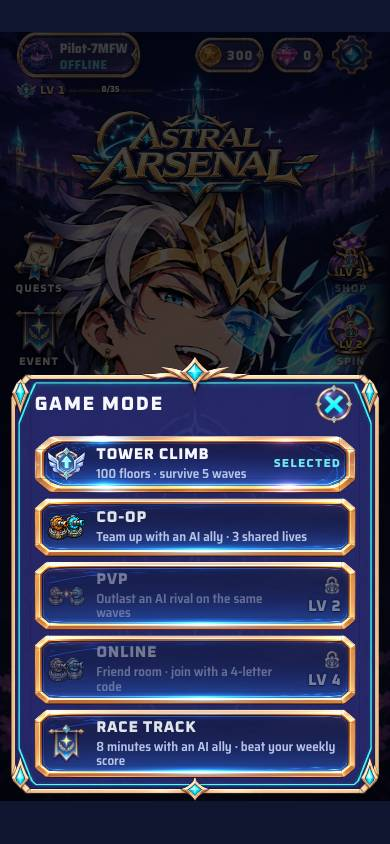
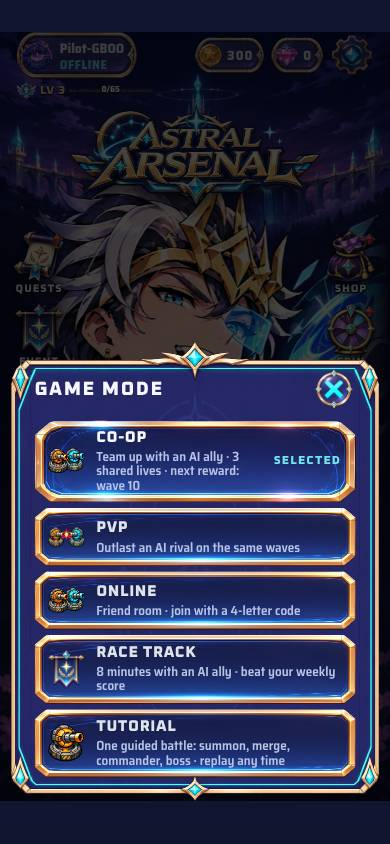
Bỏ Leo Tháp + hướng dẫn riêng: tài liệu gốc (bảng quy đổi tầng → wave), GAMEPLAY, thiết kế §5, ảnh đã xem; khung thưởng mốc wave; test
Claude-Session: https://claude.ai/code/session_01KQA7LFBkcdkiPiLcwYs7V2

diff --git a/tools/thap-kt-tien-trinh.js b/tools/thap-kt-tien-trinh.js
@@ -270,7 +270,7 @@ const sleep = (ms) => new Promise(r => setTimeout(r, ms));
     o.toast = (document.getElementById('chon-goi-nhac') || {}).textContent; o.che2 = HM.che;
     return o;
   });
-  ok(r.mo === '' && r.cheCoop === 'thap' && r.cheOnl === 'thap' && !r.shopMo && !r.vqMo && r.quay && r.ru && r.ruFree && r.sp && r.onl && r.nut && r.che === 'thap,coop,pvp,online,dd' /* 11/11 bỏ thu/san/tw/vt, thêm dd (Đường Đua) */ && /Pilot Level 4/.test(r.toast) && r.che2 === 'thap',
+  ok(r.mo === '' && r.cheCoop === 'coop' && r.cheOnl === 'coop' && !r.shopMo && !r.vqMo && r.quay && r.ru && r.ruFree && r.sp && r.onl && r.nut && r.che === 'coop,pvp,online,dd' /* 11/11 bỏ thu/san/tw/vt, thêm dd (Đường Đua) */ && /Pilot Level 4/.test(r.toast) && r.che2 === 'coop',
     'người mới (chưa xong hướng dẫn): khoá CO-OP/PVP/ONLINE/cửa hàng/vòng quay/rương (rương thưởng vẫn mở), nút tối + "LV 2", chạm → điều kiện', JSON.stringify(r));
   await chup('khoa-1-che-moi');
   await p.evaluate(() => HM.dong(true)); await chup('khoa-0-home-moi');
@@ -287,7 +287,7 @@ const sleep = (ms) => new Promise(r => setTimeout(r, ms));
     KTUI.dong();
     return o;
   });
-  ok(r.hd === 'coop,thap,dd' && r.c2 === 'coop,pvp,nvd,shop,vq,thap,dd' && r.bao2 === 'pvp,nvd,shop,vq' && r.chePvp === 'pvp' && r.shopMo && r.ruV && r.ren === 3 && r.ruVLogic && r.c3 && r.ruV3,
+  ok(r.hd === 'coop,dd' && r.c2 === 'coop,pvp,nvd,shop,vq,dd' && r.bao2 === 'pvp,nvd,shop,vq' && r.chePvp === 'pvp' && r.shopMo && r.ruV && r.ren === 3 && r.ruVLogic && r.c3 && r.ruV3,
     'xong hướng dẫn → CO-OP · cấp 2 → PVP/nhiệm vụ ngày/cửa hàng/vòng quay (báo mở khoá) · Rương Vàng cấp 3 · lò rèn còn khoá', JSON.stringify(r));
   await p.evaluate(() => { const t = TT.st(); t.bao = []; t.xp = TT.xpTong(2); KT.luu(true); HM.ve(); KTUI.capNhat(); });
   await chup('khoa-2-home-cap2');

diff --git a/tools/thap-kt-thap-leo.js b/tools/thap-kt-thap-leo.js
@@ -7,6 +7,7 @@
 //  Ảnh (SHOTS, mặc định /tmp/thap-thap-leo): 390×844 + 844×390, EN + VI — bảng GAME MODE, bảng tầng, trong trận, kết quả, mở rương.
 // Chạy: python3 -m http.server 8765 (gốc repo) · NODE_PATH=/opt/npm-tools/node_modules node tools/thap-kt-thap-leo.js [BASE]
 'use strict';
+console.log('SKIP — Leo Tháp đã BỎ khỏi game (người dùng chốt 11/11 18:41, nhánh claude/che-do-dcdw) — code còn nhưng không còn lối vào'); process.exit(0); // 11/11
 const { chromium } = require('playwright');
 const fs = require('fs');
 const BASE = process.argv[2] || process.env.BASE || 'http://localhost:8765/thap/';

diff --git a/thap/js/chedo-dd.js b/thap/js/chedo-dd.js
@@ -195,7 +195,7 @@ const MOCW = {
   kq(k) {
     const chi = document.getElementById('kq-chi'); if (!chi || !k) return;
     const r = this.nhan(Math.max(1, k.wave | 0)); if (!r.moc.length) return;
-    chi.insertAdjacentHTML('beforeend', '<div class="cdd-kq"><small>FIRST TIME · WAVE ' + Math.max.apply(null, r.moc) + '</small>' + CDDUI.thuongHtml(r.ra) + '</div>');
+    chi.insertAdjacentHTML('beforeend', '<div class="tb-kq cd-kq"><small>FIRST TIME · WAVE ' + Math.max.apply(null, r.moc) + '</small>' + CDDUI.thuongHtml(r.ra) + '</div>');
     try { OT.quet(chi); } catch (e) { }
   },
 };

diff --git a/docs/demo-hop-tuong/TAI-LIEU-GOC.md b/docs/demo-hop-tuong/TAI-LIEU-GOC.md
@@ -91,18 +91,32 @@ Nguồn: `data.js: QUAI, taoWave, mauWave, LUAT` · `game.js: wavMoi, sinhQuai, 
 - **Cảnh báo chiêu trùm** biến mất khi trùm chết (`huyBaoTrum`).
 
 ## 4. Các chế độ chơi
-Bảng GAME MODE ở HOME (`home.js: HM.CHE` + `chedo-c.js` + `chedo-d.js` + `chedo-dd.js`). **11/11 người dùng chốt "làm y như DCDW"**: chế độ = PVP, CO-OP, ONLINE phòng bạn bè, ĐƯỜNG ĐUA (Raid, Push làm đợt sau) + LEO THÁP giữ làm chế độ một mình chính. **ĐÃ BỎ khỏi game (ẩn mọi lối vào, code + bản lưu `turret_kt.cd.san / thu / vt / tw` giữ nguyên): SĂN TRÙM, THỬ THÁCH NGẮN (`CDC.bo`), VÔ TẬN, THỬ THÁCH TUẦN (`CDDC.vt.bat / tw.bat = false`)** — thắng tầng 100 Leo Tháp = kết thúc bình thường (không hỏi ENDLESS); nguồn thưởng tuần của 3 chế độ đó chuyển sang mốc điểm tuần Đường Đua. **SOLO đã bỏ (10/11)**: mục `solo` còn ẩn (`an: 1`) chỉ cho `?mode=solo` (kiểm thử) và trận hướng dẫn; bản lưu cũ chọn Solo tự chuyển sang Leo Tháp (`HM.chuan`). Mọi chế độ một người dùng bàn `solo`.
+Bảng GAME MODE ở HOME (`home.js: HM.CHE` + `chedo-c.js` + `chedo-d.js` + `chedo-dd.js`). **11/11 người dùng chốt "làm y như DCDW"**: chế độ = PVP, CO-OP, ONLINE phòng bạn bè, ĐƯỜNG ĐUA (Raid, Push làm đợt sau) ; **18:41 người dùng chốt tiếp: BỎ cả LEO THÁP** (`CDC.bo.thap`, bản lưu `cd.thap` giữ nguyên) — chế độ chính = CO-OP, hướng dẫn là một bản riêng. **ĐÃ BỎ khỏi game (ẩn mọi lối vào, code + bản lưu `turret_kt.cd.san / thu / vt / tw` giữ nguyên): SĂN TRÙM, THỬ THÁCH NGẮN (`CDC.bo`), VÔ TẬN, THỬ THÁCH TUẦN (`CDDC.vt.bat / tw.bat = false`)** — thắng tầng 100 Leo Tháp = kết thúc bình thường (không hỏi ENDLESS); nguồn thưởng tuần của 3 chế độ đó chuyển sang mốc điểm tuần Đường Đua. **SOLO đã bỏ (10/11)**: mục `solo` còn ẩn (`an: 1`) chỉ cho `?mode=solo` (kiểm thử) và trận hướng dẫn; bản lưu cũ chọn Solo tự chuyển sang Leo Tháp (`HM.chuan`). Mọi chế độ một người dùng bàn `solo`.
 
 | Chế độ | Luật | Mở khoá | Thưởng | Nguồn |
 |---|---|---|---|---|
-| **LEO THÁP** (TOWER CLIMB) — chế độ chính | 100 tầng, mỗi tầng **5 wave**; wave đầu tầng t = `min(t, 5 + ⌊0,62(t−1)⌋)` — **tầng 1–11 bắt đầu ở wave 1–11** (11/11; trước là wave 5–11), từ tầng 12 như cũ (tầng 100: wave 66–70); mana đầu = `max(100, ⌊0,6·27·W²/10⌋·10)` theo wave đầu W (tầng 1–11: 100 · 100 · 140 · 250 · 400 · 580 · 790 · 1 030 · 1 310 · 1 620 · 1 960); 3 tim; tầng chia hết 10 = tầng trùm (trùm ở wave cuối). Luật sinh quái theo chương 10 tầng: 1 thường · 2 Horde (+40% quái, −25% máu) · 3 Swift (+25% tốc, −15% máu) · 4 Giants (mỗi con thứ 3 là Khổng lồ) · 5 Thick Hide (+30% máu) · 6 Sky Raid (nửa số quái bay) · 7 Glass Core (**1 tim**) · 8 Swift+Giants · 9 Horde+Thick Hide · 10 thường nhưng máu ×1,2→×3,0. Thắng = hết 5 wave + sân sạch. HOME PLAY vào thẳng tầng chưa qua thấp nhất | Ngay sau hướng dẫn | Lần đầu mỗi tầng: `50 + 10t` vàng; tầng %5: 20 ngọc (>70: 30); tầng %10: Rương Thường (10–30), Rương Vàng (40–60), Rương Huyền thoại ×1 (70–90), ×2 (100); tầng 50: 3 Tinh thể Đỏ, tầng 100: 5. XP lần đầu `5 + ⌊t/5⌋`. Mỗi trận: XP, nhiệm vụ, điểm sự kiện, Rương Trận nhỏ khi thắng, mốc Huyền thoại theo tầng (mục 10) | `chedo-c.js: CDC.thap, CD.cauHinh, CD.thang` |
-| **CO-OP** | 2 bàn: bạn + **đồng đội máy**; 3 tim chung; trùm thứ tự cố định tới wave 59; **không trần wave** — đánh tới khi hết tim (11/11, trước thắng ở wave 70) | Sau hướng dẫn | Kỷ lục, XP, nhiệm vụ | `home.js: HM.CHE.coop`, `boCuc('coop')` |
+| **CO-OP** — chế độ chính (HOME PLAY mặc định, 11/11) | 2 bàn: bạn + **đồng đội máy**; 3 tim chung; trùm thứ tự cố định tới wave 59; **không trần wave** — đánh tới khi hết tim (11/11, trước thắng ở wave 70) | Sau hướng dẫn | Kỷ lục, XP, nhiệm vụ, Rương Trận (theo wave, như cũ). **Mốc wave đạt LẦN ĐẦU** (11/11, thay thưởng lần đầu mỗi tầng Leo Tháp; tự phát ở màn kết quả, ghi cờ trước): wave 10: 3 000 vàng + 40 ngọc + Rương Thường · 20: 5 000 + 50 + Rương Thường×2 · 30: 7 000 + 60 + Rương Vàng · 40: 8 000 + 70 + Rương Vàng×2 + 3 Tinh thể Đỏ · 50: 10 000 + 80 + Rương HH · 60: 10 000 + 80 + Rương HH×2 · 70: 12 500 + 80 + Rương HH×2 + 5 Tinh thể Đỏ (tổng = tổng thưởng lần đầu 100 tầng cũ; **SỐ TẠM**) — `chedo-dd.js: MOCWC, MOCW` | `home.js: HM.CHE.coop`, `boCuc('coop')` |
 | **PVP** | Đấu **đối thủ máy** trên cùng chuỗi wave (hạt giống chung); hết tim trước = thua; đột tử từ wave 30. Bộ đối thủ ≥3 ụ gây sát thương, ≤1 hỗ trợ | Cấp phi công 2 | XP, nhiệm vụ | `HM.CHE.pvp`, `deckDoiThu` |
 | **ONLINE** | Phòng bạn bè **CO-OP 2 người** qua mã 4 chữ / link; sảnh chờ READY; đồng bộ "lockstep-lite" (mục 13) | Cấp phi công 4 | Như CO-OP | `online/phong.js, dongbo.js` |
 | **ĐƯỜNG ĐUA** (RACE TRACK) — theo DCDW, thêm 11/11 | Bàn CO-OP: bạn + **đồng đội máy dùng cùng bộ bài của bạn**, cấp thẻ thật, **3 tim chung**. Đồng hồ **8:00**, **không chia wave**: quái ra liên tục, 2 làn luân phiên, nhịp `max(0,45; 1,5 − 1,05·t/480)` giây/con (~550 con / lượt); chuỗi quái (loại, làn, trùm nhỏ) sinh bằng `rngHat(hạt TUẦN)` → mọi người cùng chuỗi trong tuần (hạt trận — triệu hồi, kỹ năng — vẫn ngẫu nhiên mỗi lượt). Máu 1 con = `110 × hệ số loại × (1 + 0,015·g) × (1 + (g/270)^4)`, g = số quái đã diệt (con tách ra không tính). **Trùm nhỏ mỗi 120 s** (máu = 25 con thường lúc đó, lọt −2 tim). Mana mỗi mạng tăng theo "chặng" 20 s (như wave thường). **Trần 34 quái sống** lúc sinh: quá trần thì con chưa ra dồn máu + điểm vào con kế. **Điểm** = tổng cân nặng quái đã diệt (thường/bay 1 · tách 2 · khổng lồ 4 · quái tách lớn 5 · trùm nhỏ 30). Hết giờ, hết tim hoặc bỏ cuộc = dừng, **giữ điểm**. Không ghi kỷ lục wave / Rương Trận / nhiệm vụ theo wave | Sau hướng dẫn | **Mốc ĐIỂM tuần** (1 lần/tuần, đặt lại thứ Hai, ghi cờ trước khi phát): 100: 1 000 vàng + 50 ngọc · 250: 50 ngọc · 400: 2 000 vàng + 1 Tinh thể Đỏ · 550: 60 ngọc + Rương HH · 700: 2 000 vàng + 1 Tinh thể Đỏ · 850: Rương HH×2 + 1 Tinh thể Đỏ. **SỐ TẠM, chờ duyệt.** Bảng xếp hạng tuần | `chedo-dd.js: DDC, DD` |
-| **HƯỚNG DẪN** | Trận đầu tiên: bộ cố định Sniper, Gatling, Frost, Tesla, Revolver + chỉ huy REINFORCE; 7 bước (mục tiêu → triệu hồi ×2 → ghép → chạm xem thông tin → chỉ huy → tự chơi → trùm); xong = hạ trùm wave 10. Bỏ qua được | Lần đầu mở game | Tặng ụ **Ice Blade**; mở bậc Trắng + Xanh, CO-OP, Leo Tháp, Thử thách | `huongdan.js: HD`, `sohuu.js: SHC.qua.hd` |
+| **HƯỚNG DẪN** — một bản riêng (trận `solo` ẩn với bộ + luật cố định của nó, không dùng cấu hình chế độ nào); chơi lại: GAME MODE → **TUTORIAL** hoặc Settings → REPLAY TUTORIAL; xong → nút **PLAY CO-OP** | Trận đầu tiên: bộ cố định Sniper, Gatling, Frost, Tesla, Revolver + chỉ huy REINFORCE; 7 bước (mục tiêu → triệu hồi ×2 → ghép → chạm xem thông tin → chỉ huy → tự chơi → trùm); xong = hạ trùm wave 10. Bỏ qua được | Lần đầu mở game | Tặng ụ **Ice Blade**; mở bậc Trắng + Xanh, CO-OP, Leo Tháp, Thử thách | `huongdan.js: HD`, `sohuu.js: SHC.qua.hd` |
 
-Ghi chú: trận Leo Tháp / Đường Đua **không ghi kỷ lục wave** (Leo Tháp không ghi `turret_best` Solo; Đường Đua không ghi kỷ lục CO-OP) (`turret_best`); kỷ lục wave Solo cũ vẫn được tính cho mọi mốc đổi sang tầng (điều kiện Đỏ, thành tựu, chỉ huy, mốc Huyền thoại).
+**Quy đổi sau khi bỏ Leo Tháp (11/11, số TẠM):** mọi điều kiện đo theo TẦNG đo lại theo WAVE (CO-OP / PVP / online — `tk.wave`, `TT dem.wave`, `MH sw`); tầng đã qua vẫn tính: **tầng f ≙ wave `9 + ⌊0,62·(f−1)⌋`** (`TT.waveTuTang`), mốc wave CO-OP W coi như đã nhận nếu tầng đã qua ≥ `TT.tangTuWave(W)` (10→4, 20→20, 30→36, 40→52, 50→68, 60→84, 70→100).
+
+| Điều kiện cũ (tầng) | Điều kiện mới (wave) |
+|---|---|
+| Hành trình: qua tầng 5 / 10 / 15 / 20 / 25 / 35 | đạt wave 11 / 14 / 17 / 20 / 23 / 30 |
+| Nhiệm vụ ngày "qua tầng ≥ 15" · nhiệm vụ Lò rèn "qua tầng ≥ 40" | đạt wave 15 · đạt wave 30 (trong 1 trận) |
+| Nhiệm vụ tuần "3 trận trong 5 tầng quanh tầng cao nhất" | 3 trận trong 5 wave quanh kỷ lục |
+| Thành tựu qua tầng 40 / 70 / 100 | đạt wave 30 / 50 / 70 |
+| Mốc Huyền thoại tầng 20 / 40 / 55 / 70 / 85 / 100 | wave CO-OP 20 / 30 / 40 / 50 / 60 / 70 (cặp w–t có sẵn trong `MHC.moc`) |
+| Mở bậc Đỏ: LV12 + tầng 40 | LV12 + wave 30 (`TTC.doWave`) |
+| Chỉ huy TWIN / CROSSFIRE / NEXUS: tầng 15 / 40 / 70 (hoặc ngọc) | wave 15 / 30 / 50 (hoặc ngọc) (`MAVUONG.mo2.wave`) |
+| Thưởng lần đầu mỗi tầng (100 tầng) | 7 mốc wave CO-OP lần đầu (xem hàng CO-OP) |
+| Rương Trận nhỏ mỗi lần thắng tầng · XP / điểm sự kiện theo tầng | Rương Trận / XP / điểm sự kiện theo wave của trận CO-OP / PVP (công thức có sẵn, không đổi) |
+| Hồ sơ: BEST FLOOR | BEST WAVE (tầng cũ hiện nhỏ "TOWER FLOOR n") |
+
+Ghi chú: trận Leo Tháp (đã bỏ) / Đường Đua **không ghi kỷ lục wave** (Leo Tháp không ghi `turret_best` Solo; Đường Đua không ghi kỷ lục CO-OP) (`turret_best`); kỷ lục wave Solo cũ vẫn được tính cho mọi mốc đổi sang tầng (điều kiện Đỏ, thành tựu, chỉ huy, mốc Huyền thoại).
 
 ## 5. 5 bậc và hệ số sức mạnh
 Nguồn: `data.js: TIERS, CAP_VD, CAP_DO, TOC_DO` · `thebai.js: THE`.
@@ -390,7 +404,7 @@ Nguồn: `tientrinh.js: TTC, TT` · `kinhte.js: KTC.nv, dn, tt, sk` · `sohuu.js
 
 - **Cấp phi công:** XP lên L→L+1 = `20 + 15L`, tối đa **LV30**; sau 30 mỗi 1 000 XP = 1 cấp danh vọng (300 vàng + Rương Thường). Thưởng mỗi cấp `150·L` vàng + 20 ngọc; LV5/10/…/30 thêm Rương Vàng; LV6: chọn 1 trong 3 thẻ Vàng.
 - **XP mỗi trận:** wave đạt + 3×trùm hạ + 10 nếu thắng; Leo Tháp: wave đã qua trong tầng (≤5) + 3×trùm + 5 nếu qua tầng (+ XP lần đầu tầng).
-- **Khoá tính năng** (`TTC.tn`): CO-OP, Leo Tháp, Đường Đua sau hướng dẫn · PVP, nhiệm vụ ngày, cửa hàng, vòng quay LV2 · Rương Vàng LV3 · ONLINE LV4 · nhiệm vụ tuần LV8 · Lò rèn + Ấn Vàng LV10 · Rương Thần thoại + Ấn Đỏ: điều kiện Đỏ · Săn Trùm: hạ 3 trùm khác nhau · Vô tận: qua tầng 100. Nút khoá: tối + "LV n" / "FLOOR n", chạm = 1 dòng điều kiện.
+- **Khoá tính năng** (`TTC.tn`): CO-OP, Đường Đua sau hướng dẫn · PVP, nhiệm vụ ngày, cửa hàng, vòng quay LV2 · Rương Vàng LV3 · ONLINE LV4 · nhiệm vụ tuần LV8 · Lò rèn + Ấn Vàng LV10 · Rương Thần thoại + Ấn Đỏ: điều kiện Đỏ · Săn Trùm: hạ 3 trùm khác nhau · Vô tận: qua tầng 100. Nút khoá: tối + "LV n" / "FLOOR n", chạm = 1 dòng điều kiện.
 - **Hành trình 7 ngày** (đạt 1 trong các mục tiêu mỗi ngày, làm bù được): N1 qua tầng 5 / 3 trận / có ụ 3★ → 500 vàng + 30 ngọc + Rương Thường + Berserker · N2 hạ trùm tầng 10 / ụ 4★ / lên cấp 2 thẻ → 800 vàng + 30 ngọc + Rương Thường · N3 1 trận CO-OP / 2 trùm khác nhau / tầng 15 → 40 ngọc + chọn 4 bản Tím · N4 tầng 20 / ụ 5★ / mua Daily Specials → 1 500 vàng + 40 ngọc + Storm Gun · N5 tầng 25 / 3 trùm / 2 ụ 5★ cùng lúc (hoặc 6 ụ 5★+ tổng) → Rương Vàng · N6 1 trận PVP / 3 nhiệm vụ ngày / LV9 (hoặc 25 trận) → 2 000 vàng + 50 ngọc + Overclock · N7 tầng 35 / 4 trùm khác nhau / lên cấp 1 thẻ Vàng → chọn 2 bản Vàng.
 - **Nhiệm vụ ngày:** 3/ngày từ bể (thắng 1 trận 300 vàng · 3 trận 400 vàng · ghép 30 lần 10 ngọc · qua tầng ≥15 10 ngọc · triệu hồi 50 300 vàng · CO-OP/ONLINE 15 ngọc · 1 PVP 15 ngọc · hạ 2 trùm 15 ngọc · 3 ụ 5★+ 400 vàng · qua tầng ≥40 Rương HH); đủ 3 = +20 ngọc; đổi 1 nhiệm vụ/ngày miễn phí.
 - **Nhiệm vụ tuần (LV8, reset thứ Hai):** 15 trận · 8 trùm · 3 trận trong 5 tầng quanh tầng cao nhất · 10 ụ 5★+ · 12 nhiệm vụ ngày → mỗi việc 20 ngọc; đủ 5 = 40 ngọc + Rương HH.

diff --git a/docs/demo-hop-tuong/tuvan/che-do-dcdw/THIET-KE.md b/docs/demo-hop-tuong/tuvan/che-do-dcdw/THIET-KE.md
@@ -43,3 +43,10 @@ Máy phiên cũ còn ~640 MB ổ đĩa (không dựng được bản làm việc
     "v":  { ".validate": "newData.isNumber()" },
     "$other": { ".validate": false } } } }
 ```
+
+## 5. BỔ SUNG 11/11 18:41–18:42 — "Leo tháp xoá, làm tutorial 1 bản riêng", "tham khảo thưởng DCDW" (đã làm trên cùng nhánh)
+- **Bỏ Leo Tháp**: `CDC.bo.thap` (ẩn GAME MODE, `CD.vao` từ chối, bỏ khoá tính năng); HOME PLAY mặc định = **CO-OP** (`HM.chuan`: Solo / Leo Tháp cũ → CO-OP). Bảng quy đổi tầng → wave: `TAI-LIEU-GOC.md` mục 4.
+- **Tiến trình kiểu DCDW**: mốc wave CO-OP đạt lần đầu (`chedo-dd.js: MOCWC`) thay thưởng lần đầu mỗi tầng; thưởng tuần = mốc điểm Đường Đua. Rương Trận mỗi trận CO-OP / PVP (theo wave) GIỮ như cũ.
+- **Hướng dẫn riêng**: `huongdan.js` vốn đã là 1 trận độc lập (bàn `solo` ẩn, bộ cố định, xong = hạ trùm wave 10) — thêm mục TUTORIAL trong GAME MODE, xong → PLAY CO-OP.
+- **DCDW có, mình CHƯA có (đề xuất, chưa làm — chờ người dùng quyết):** cúp PVP + mốc cúp lần đầu + Crystal Crown cuối mùa · túi thắng PVP rơi theo xác suất, giữ tối đa 4, mở mất thời gian · CO-OP giới hạn 3 lượt/ngày, lọt 1 quái là hết trận (mình: 3 tim chung), wave 30 = 1 túi rồi vàng / vật liệu theo trùm · token Raid · Pass mùa 70 bậc · nhiệm vụ nhóm Archfiend Race · bảo hiểm Huyền thoại túi thứ 7 · mốc số trận THẮNG PVP lần đầu (mình chưa có bộ đếm thắng riêng PVP).
+- Bot CO-OP bộ khởi đầu (cấp 0, 3 hạt, cân bằng wave biến thể B): `tia,lien,sungluc,bang,set` + đồng đội bộ ngẫu nhiên: wave 42 / 16 / 49; + đồng đội cùng bộ: 10 / 10 / 17. `lien,set,mana,doc,phagiap` + ngẫu nhiên: 39 / 7 / 43; + cùng bộ: 2 / 2 / 2. → trận CO-OP đầu của tài khoản mới phụ thuộc nặng vào bộ ngẫu nhiên của đồng đội máy.
